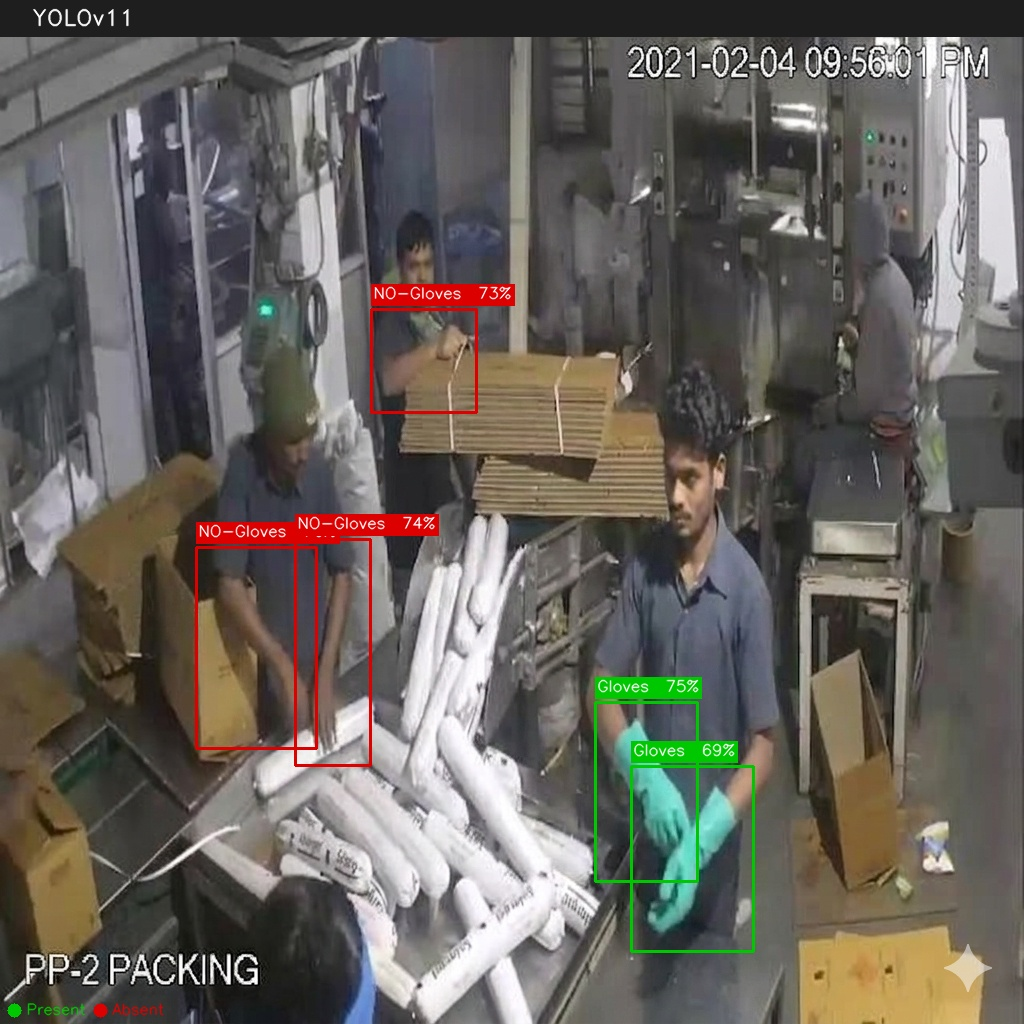
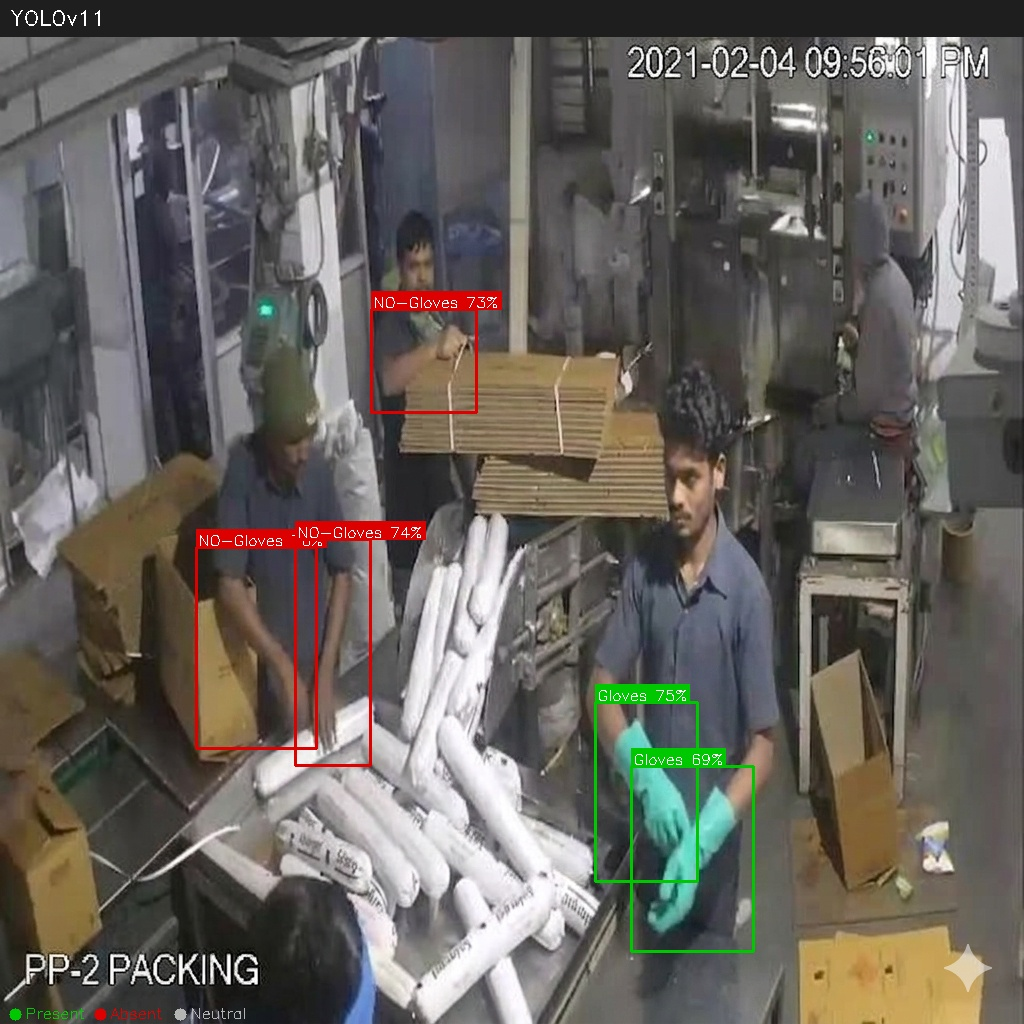
updated

diff --git a/ppe_project/detect.py b/ppe_project/detect.py
@@ -1,142 +1,135 @@
-"""
-PPE Object Detection - Multi-Model Testing
-Supports: YOLOv8, YOLOv9, YOLOv11, YOLOv12 (ultralytics)
-- Green box  → PPE item PRESENT
-- Red box    → PPE item ABSENT  (if your model has "no_helmet", "no_vest" etc. classes)
-
-Usage:
-    python ppe_detection.py
-
-Folder structure expected:
-    ppe_detection.py
-    models/
-        yolov8_ppe.pt
-        yolov9_ppe.pt
-        yolov11_ppe.pt
-        yolov12_ppe.pt   ← "yolov26" mapped here; adjust path below
-    test_images/
-        image1.jpg
-        image2.jpg
-        image3.jpg
-"""
-
 import cv2
 import numpy as np
 from pathlib import Path
 from ultralytics import YOLO
 
 # ─────────────────────────────────────────────
-# ① CONFIGURATION  – edit paths to match yours
+# ① CONFIG
 # ─────────────────────────────────────────────
 
 MODEL_PATHS = {
     "YOLOv8":  "runs/detect/ppe_project/models/yolov8m_ppe/weights/best.pt",
     "YOLOv9":  "runs/detect/ppe_project/models/yolov9m_ppe/weights/best.pt",
     "YOLOv11": "runs/detect/ppe_project/models/yolov11m_ppe/weights/best.pt",
-    "YOLOv26": "runs/detect/ppe_project/models/yolo26m_ppe/weights/best.pt",   # ← rename to your v26 weight file
+    "YOLOv26": "runs/detect/ppe_project/models/yolo26m_ppe/weights/best.pt",
 }
 
 TEST_IMAGES = [
-    "ppe_project/test1/img1.png",
-    "ppe_project/test1/img2.png",
-    "ppe_project/test1/img3.png",
+    "ppe_project/test1/img4.jpg",
+    "ppe_project/test1/img5.jpg",
+    "ppe_project/test1/img6.jpg",
 ]
 
 OUTPUT_DIR = Path("output_results")
 
-# Detection threshold
 CONF_THRESHOLD = 0.3
 
-# ── Class-name → colour mapping ──────────────────────────────────────────────
-# Classes whose names contain any keyword in ABSENT_KEYWORDS → RED  (missing PPE)
-# Everything else                                            → GREEN (PPE present)
-ABSENT_KEYWORDS = [
-    "no_", "no-", "without", "missing", "absent",
-    "none", "unprotected",
-]
-
-GREEN = (0, 200, 0)
-RED   = (0, 0, 220)
-
 # ─────────────────────────────────────────────
-# ② HELPERS
+# ② CLASS GROUPING (IMPORTANT FIX)
 # ─────────────────────────────────────────────
 
-def is_absent(class_name: str) -> bool:
-    """Return True if the detected class represents a MISSING PPE item."""
-    name = class_name.lower()
-    return any(kw in name for kw in ABSENT_KEYWORDS)
+ABSENT_CLASSES = {
+    "NO-Gloves",
+    "NO-Goggles",
+    "NO-Hardhat",
+    "NO-Mask",
+    "NO-Safety Vest"
+}
+
+IGNORE_CLASSES = {
+    "Person",
+    "Ladder",
+    "Safety Cone",
+    "Fall-Detected"
+}
+
+# Colors
+GREEN = (0, 200, 0)     # PPE present
+RED   = (0, 0, 220)     # PPE missing
+GRAY  = (180, 180, 180) # Neutral objects
+
+# ─────────────────────────────────────────────
+# ③ HELPERS
+# ─────────────────────────────────────────────
+
+def get_color(class_name: str):
+    if class_name in IGNORE_CLASSES:
+        return GRAY
+    elif class_name in ABSENT_CLASSES:
+        return RED
+    else:
+        return GREEN
 
 
-def draw_detections(image: np.ndarray, results, model_name: str) -> np.ndarray:
-    """
-    Draw bounding boxes on *image* from ultralytics Results object.
-    Green = PPE present | Red = PPE absent
-    """
+def draw_detections(image, results, model_name):
     annotated = image.copy()
     h, w = annotated.shape[:2]
 
-    # Header banner
-    banner_h = 36
-    cv2.rectangle(annotated, (0, 0), (w, banner_h), (30, 30, 30), -1)
-    cv2.putText(annotated, f"  {model_name}", (8, 25),
-                cv2.FONT_HERSHEY_DUPLEX, 0.75, (255, 255, 255), 1, cv2.LINE_AA)
+    # Header
+    cv2.rectangle(annotated, (0, 0), (w, 36), (30, 30, 30), -1)
+    cv2.putText(annotated, f"{model_name}", (10, 25),
+                cv2.FONT_HERSHEY_DUPLEX, 0.7, (255, 255, 255), 1)
 
     boxes = results[0].boxes
     if boxes is None or len(boxes) == 0:
-        cv2.putText(annotated, "No detections", (10, banner_h + 30),
-                    cv2.FONT_HERSHEY_SIMPLEX, 0.6, (0, 165, 255), 2)
+        cv2.putText(annotated, "No detections", (10, 70),
+                    cv2.FONT_HERSHEY_SIMPLEX, 0.7, (0, 165, 255), 2)
         return annotated
 
-    names = results[0].names   # {0: 'helmet', 1: 'no_helmet', ...}
+    names = results[0].names
 
     for box in boxes:
-        conf  = float(box.conf[0])
+        conf = float(box.conf[0])
         if conf < CONF_THRESHOLD:
             continue
 
-        cls_id     = int(box.cls[0])
-        cls_name   = names.get(cls_id, str(cls_id))
-        colour     = RED if is_absent(cls_name) else GREEN
-        thickness  = 2
+        cls_id = int(box.cls[0])
+        cls_name = names.get(cls_id, str(cls_id))
 
-        x1, y1, x2, y2 = map(int, box.xyxy[0].tolist())
+        color = get_color(cls_name)
 
-        # Bounding box
-        cv2.rectangle(annotated, (x1, y1), (x2, y2), colour, thickness)
+        x1, y1, x2, y2 = map(int, box.xyxy[0])
 
-        # Label background
-        label      = f"{cls_name}  {conf:.0%}"
-        font_scale = 0.52
-        font_thick = 1
-        (lw, lh), baseline = cv2.getTextSize(
-            label, cv2.FONT_HERSHEY_SIMPLEX, font_scale, font_thick)
-        label_y    = max(y1 - 6, lh + 6)
+        # Draw box
+        cv2.rectangle(annotated, (x1, y1), (x2, y2), color, 2)
+
+        # Label
+        label = f"{cls_name} {conf:.0%}"
+        (tw, th), _ = cv2.getTextSize(label,
+                                     cv2.FONT_HERSHEY_SIMPLEX, 0.5, 1)
+
         cv2.rectangle(annotated,
-                      (x1, label_y - lh - baseline - 2),
-                      (x1 + lw + 4, label_y + 2),
-                      colour, -1)
-        cv2.putText(annotated, label,
-                    (x1 + 2, label_y - baseline),
-                    cv2.FONT_HERSHEY_SIMPLEX, font_scale,
-                    (255, 255, 255), font_thick, cv2.LINE_AA)
+                      (x1, y1 - th - 6),
+                      (x1 + tw + 4, y1),
+                      color, -1)
 
-    # Legend (bottom-left)
+        cv2.putText(annotated, label,
+                    (x1 + 2, y1 - 2),
+                    cv2.FONT_HERSHEY_SIMPLEX, 0.5,
+                    (255, 255, 255), 1)
+
+    # Legend
     legend_y = h - 10
-    cv2.circle(annotated, (14, legend_y - 4), 7, GREEN, -1)
-    cv2.putText(annotated, "Present", (26, legend_y),
-                cv2.FONT_HERSHEY_SIMPLEX, 0.5, GREEN, 1, cv2.LINE_AA)
-    cv2.circle(annotated, (100, legend_y - 4), 7, RED, -1)
-    cv2.putText(annotated, "Absent", (112, legend_y),
-                cv2.FONT_HERSHEY_SIMPLEX, 0.5, RED, 1, cv2.LINE_AA)
+
+    cv2.circle(annotated, (15, legend_y), 6, GREEN, -1)
+    cv2.putText(annotated, "Present", (25, legend_y + 4),
+                cv2.FONT_HERSHEY_SIMPLEX, 0.5, GREEN, 1)
+
+    cv2.circle(annotated, (100, legend_y), 6, RED, -1)
+    cv2.putText(annotated, "Absent", (110, legend_y + 4),
+                cv2.FONT_HERSHEY_SIMPLEX, 0.5, RED, 1)
+
+    cv2.circle(annotated, (180, legend_y), 6, GRAY, -1)
+    cv2.putText(annotated, "Neutral", (190, legend_y + 4),
+                cv2.FONT_HERSHEY_SIMPLEX, 0.5, GRAY, 1)
 
     return annotated
 
 
-def make_grid(images: list[np.ndarray], cols: int = 2) -> np.ndarray:
-    """Tile a list of images into a grid (all resized to same height)."""
+def make_grid(images, cols=2):
     target_h = 480
     resized = []
+
     for img in images:
         h, w = img.shape[:2]
         new_w = int(w * target_h / h)
@@ -144,75 +137,56 @@ def make_grid(images: list[np.ndarray], cols: int = 2) -> np.ndarray:
 
     rows = []
     for i in range(0, len(resized), cols):
-        row_imgs = resized[i:i + cols]
-        # Pad last row if uneven
-        while len(row_imgs) < cols:
-            blank = np.zeros_like(row_imgs[0])
-            row_imgs.append(blank)
-        rows.append(np.hstack(row_imgs))
+        row = resized[i:i + cols]
+        while len(row) < cols:
+            row.append(np.zeros_like(resized[0]))
+        rows.append(np.hstack(row))
 
     return np.vstack(rows)
 
-
 # ─────────────────────────────────────────────
-# ③ MAIN
+# ④ MAIN
 # ─────────────────────────────────────────────
 
 def main():
-    OUTPUT_DIR.mkdir(parents=True, exist_ok=True)
+    OUTPUT_DIR.mkdir(exist_ok=True)
 
-    # Load models
-    print("\n── Loading models ──────────────────────────────")
+    print("Loading models...")
     models = {}
+
     for name, path in MODEL_PATHS.items():
-        if not Path(path).exists():
-            print(f"  [SKIP] {name}: file not found → {path}")
-            continue
-        print(f"  Loading {name} …", end=" ", flush=True)
-        models[name] = YOLO(path)
-        print("OK")
+        if Path(path).exists():
+            models[name] = YOLO(path)
+            print(f"{name} loaded")
+        else:
+            print(f"{name} not found")
 
-    if not models:
-        print("\n⚠  No model files found. Check MODEL_PATHS in the script.")
-        return
-
-    # Process each image
     for img_path in TEST_IMAGES:
-        img_path = Path(img_path)
-        if not img_path.exists():
-            print(f"\n[SKIP] Image not found: {img_path}")
+        img = cv2.imread(img_path)
+
+        if img is None:
+            print(f"Image not found: {img_path}")
             continue
 
-        print(f"\n── Processing: {img_path.name} ─────────────────")
-        image = cv2.imread(str(img_path))
-        if image is None:
-            print(f"  ✗ Could not read image.")
-            continue
-
-        per_model_outputs = []
+        outputs = []
 
         for model_name, model in models.items():
-            print(f"  {model_name} … ", end="", flush=True)
+            results = model(img, conf=CONF_THRESHOLD, verbose=False)
 
-            results = model(image, conf=CONF_THRESHOLD, verbose=False)
-            annotated = draw_detections(image, results, model_name)
+            annotated = draw_detections(img, results, model_name)
 
-            # Save individual result
-            out_name = f"{img_path.stem}_{model_name}.jpg"
-            out_path = OUTPUT_DIR / out_name
-            cv2.imwrite(str(out_path), annotated)
-            print(f"saved → {out_path}")
+            save_path = OUTPUT_DIR / f"{Path(img_path).stem}_{model_name}.jpg"
+            cv2.imwrite(str(save_path), annotated)
 
-            per_model_outputs.append(annotated)
+            outputs.append(annotated)
 
-        # Save comparison grid (all models side-by-side for this image)
-        if len(per_model_outputs) > 1:
-            grid = make_grid(per_model_outputs, cols=2)
-            grid_path = OUTPUT_DIR / f"{img_path.stem}_ALL_MODELS.jpg"
+        # Grid comparison
+        if len(outputs) > 1:
+            grid = make_grid(outputs)
+            grid_path = OUTPUT_DIR / f"{Path(img_path).stem}_comparison.jpg"
             cv2.imwrite(str(grid_path), grid)
-            print(f"  Grid saved → {grid_path}")
 
-    print("\n✔  Done! Results in:", OUTPUT_DIR.resolve())
+    print("Done! Check output_results folder.")
 
 
 if __name__ == "__main__":
